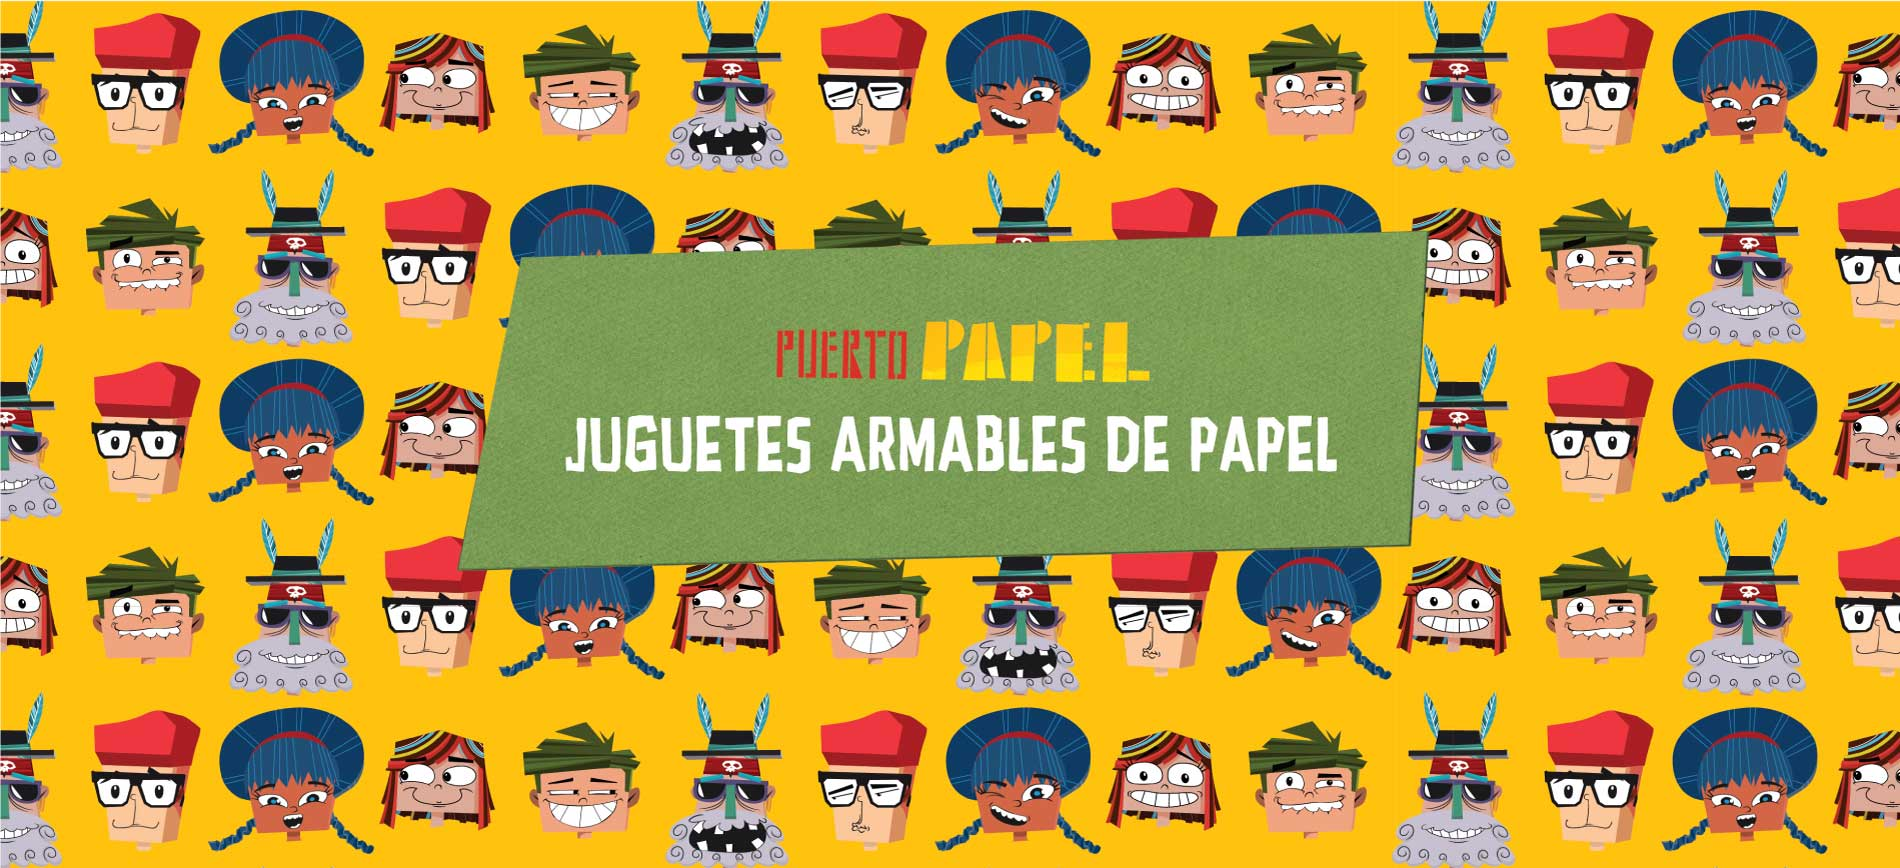
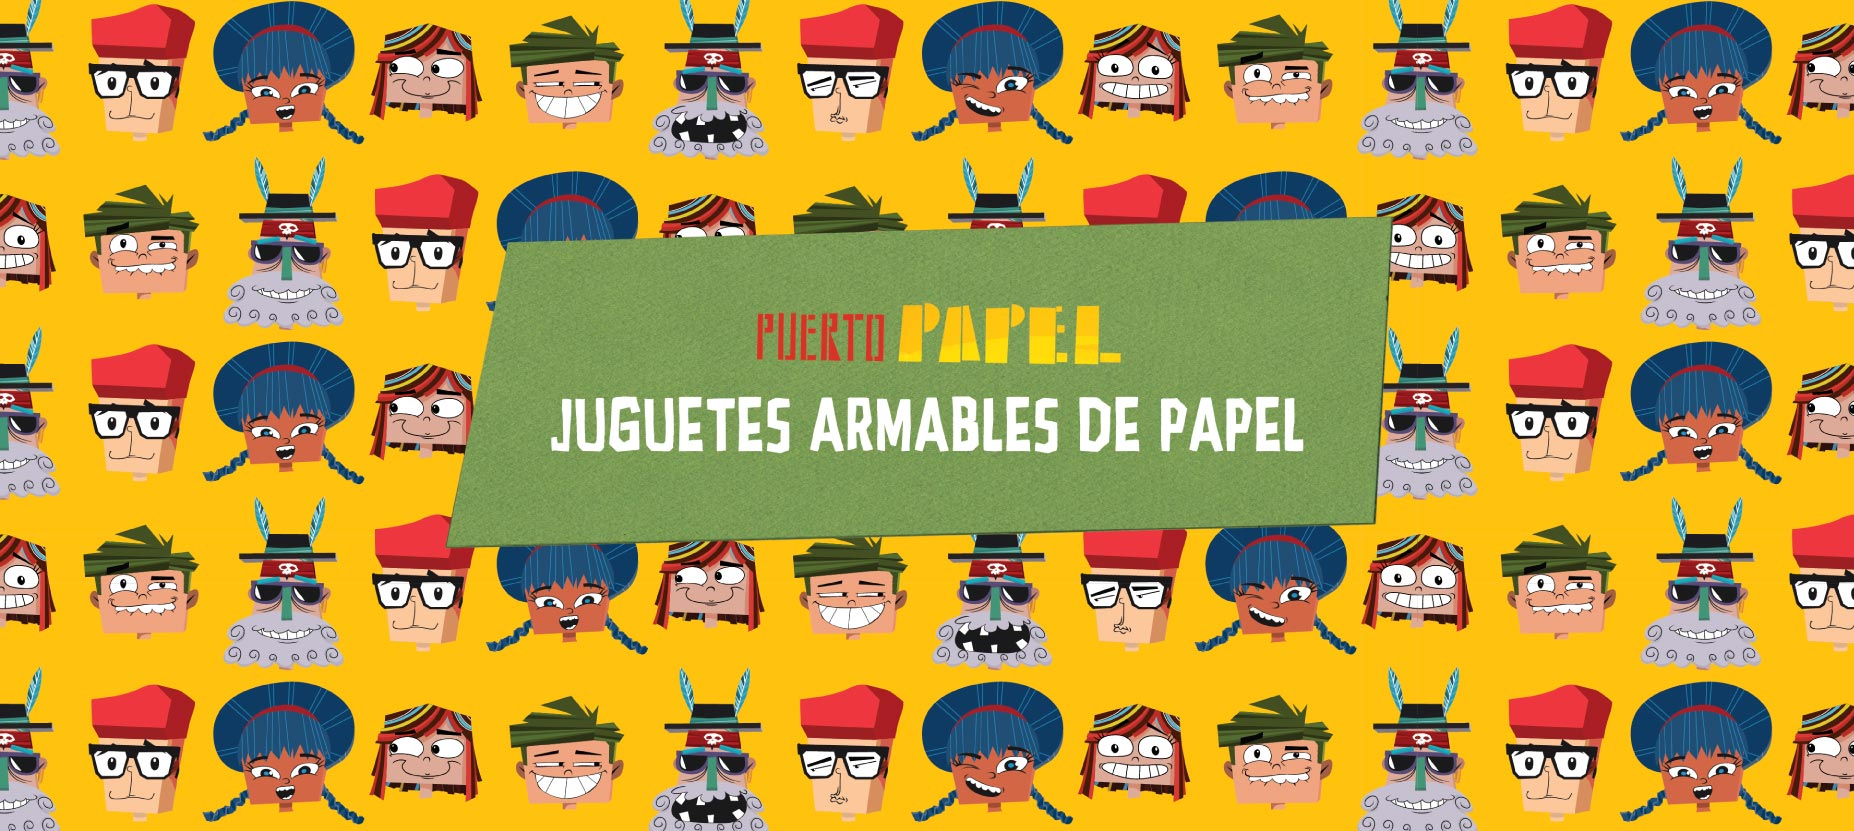
version movil 1

diff --git a/index.html b/index.html
@@ -30,6 +30,65 @@
     .espaciado{
           margin-bottom: 1rem!important;
     }
+    .imagen_pc{
+      display:block;}
+      .imagen_ph{
+        display: none;
+      }
+
+    @media screen and (max-width: 1024px) {
+        .titulos{
+            display:none;
+        }
+        .header{
+            display:none;
+        }
+        .imagen_ph{
+              display:none !important;
+          }
+          .imagen_pc{
+      
+              display:block;
+          }
+    }
+           
+      @media screen and (max-width: 320px) { 
+          .titulos{
+              display:block;   
+              }
+          .cita{
+              display:block;
+          }
+          .imagen_pc{
+      
+              display:none !important;
+          }
+          }
+        
+    @media screen and (max-width: 480px) { 
+          .titulos{
+              display:block;   
+              }
+          .imagen_ph{
+              display:block !important;
+          }
+          .imagen_pc{
+      
+              display:none !important;
+          }
+          }
+      @media screen and (max-width: 736px) { 
+          .titulos{
+              display:block;   
+              }
+          .imagen_ph{
+              display:block !important;
+              
+          }
+          .imagen_pc{
+      
+              display:none !important;
+          }}
   </style>
 
   </head>
@@ -61,7 +120,7 @@
              
           </div>
           <div class="col-2 col-md-6 text-center site-logo-wrap">
-            <a href="index.html" class="site-logo">
+            <a href="http://zumbastico.com" target="_blank" style="text-decoration: none;" class="site-logo">
               <img style="width: 20%" src="images/logo-final-2.png">
             </a>
           </div>
@@ -76,11 +135,11 @@
       <div class="main-wrap " id="section-home" style="background: url(images/bg_verde_pattern.jpg); background-attachment: fixed;">
 
         <div class="cover_1 overlay bg-light">
-          <div class="img_bg" style="background-image: url(images/Banner-04.jpg); background-size: 100%" data-stellar-background-ratio="0.5">
+          <div class="img_bg imagen_pc" style="background-image: url(images/Banner-04.jpg); background-size: 100%" data-stellar-background-ratio="0.5">
             <div class="container" >
               <div class="row justify-content-center text-center">
                 <div class="col-md-10" style="top:8%" data-aos="fade-up">
-                  <img src="images/Zumbastico_Logo_blanco.png" style="width:20%;">
+                  <a href="http://zumbastico.com" target="_blank" style="text-decoration: none;"><img src="images/Zumbastico_Logo_blanco.png" style="width:20%;"></a>
                   <!--<h2 class="heading mb-5"style="font-family:ad_polaquitaregular !important;" ></h2>-->
                   
                 </div>
@@ -89,7 +148,24 @@
                 <p><a href="#info" class="smoothscroll btn btn-outline-white px-5 py-3 ">Descárgalos</a></p> </div>
             </div>
           </div>
+          <div class="ph">
+            <div class="img_bg imagen_ph" style="background-image: url(images/Banner-04-movil.jpg); background-size: 100%" data-stellar-background-ratio="0.5">
+              <div class="container" >
+                <div class="row justify-content-center text-center">
+                  <div class="col-md-10" style="top:8%" data-aos="fade-up">
+                    <a href="http://zumbastico.com" target="_blank"><img src="images/Zumbastico_Logo_blanco.png" style="width:20%;"></a>
+                    <!--<h2 class="heading mb-5"style="font-family:ad_polaquitaregular !important;" ></h2>-->
+                    
+                  </div>
+                </div>
+                <div class="row align-items-center">
+                  <p><a href="#info" class="smoothscroll btn btn-outline-white px-5 py-3 ">Descárgalos</a></p> </div>
+              </div>
+            </div>
+          </div>
         </div> <!-- .cover_1 -->
+        </div> <!-- .cover_1 -->
+
 
         <div class="section"  data-aos="fade-up" id="info">
           <div class="container" style="max-width: 990px;">

diff --git a/css/style.css b/css/style.css
@@ -1799,3 +1799,57 @@ textarea.form-control {
     stroke-dashoffset: -136px;
   }
 }
+
+@media screen and (max-width: 1024px) {
+        .titulos{
+            display:none;
+        }
+        .header{
+            display:none;
+        }
+        .ph{
+              display:none;
+          }
+          .pc{
+      
+              display:block;
+          }
+    }
+           
+      @media screen and (max-width: 320px) { 
+          .titulos{
+              display:block;   
+              }
+          .cita{
+              display:block;
+          }
+          .pc{
+      
+              display:none;
+          }
+          }
+        
+    @media screen and (max-width: 480px) { 
+          .titulos{
+              display:block;   
+              }
+          .ph{
+              display:block;
+          }
+          .pc{
+      
+              display:none;
+          }
+          }
+      @media screen and (max-width: 736px) { 
+          .titulos{
+              display:block;   
+              }
+          .ph{
+              display:block;
+              
+          }
+          .pc{
+      
+              display:none;
+          }}
